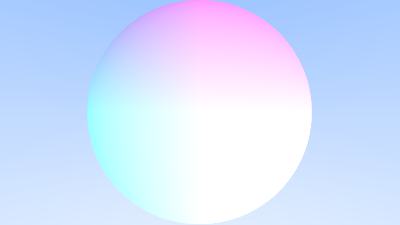
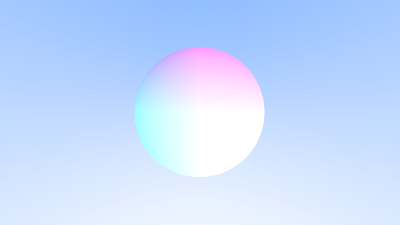
improve iterator usage in main method

Changed region(s): [[0.21, 0.0, 0.78, 0.9333]]

diff --git a/src/main.rs b/src/main.rs
@@ -1,57 +1,39 @@
 use std::{path::Path, vec};
-use image::ImageBuffer;
+use image::{ImageBuffer};
 use rust_raytracing::Ray;
 use rust_raytracing::Camera;
 use rust_raytracing::write_color;
 use rand::{thread_rng, Rng};
-
 
 fn main() {
     // Image
     let aspect_ratio = 16.0 / 9.0;
     let image_width: u32 = 400;
     let image_height = (image_width as f64 / aspect_ratio) as u32;
-    let origin = vec![0.0,0.0,0.0];
     let samples_per_pixel = 100;
 
-    // Camera
     let path = Path::new("image.png");
     let mut imgbuf = ImageBuffer::new(image_width, image_height);
-    
-    let camera = Camera::new(60.0, aspect_ratio, 1.0);
+    let camera = Camera::new(90.0, aspect_ratio, 1.0);
 
-    let mut rng = thread_rng();    
+    let mut rng = thread_rng(); 
 
-    for j in (0..image_height).rev(){
-        for i in 0..image_width{
-            let mut cumulative_color_vec = vec![0.0,0.0,0.0];
-            for s in 0..samples_per_pixel {
-                let u_scale = (i as f64 + rng.gen_range(0.0..1.0)) / (image_width - 1) as f64;
-                let v_scale = (j as f64 + rng.gen_range(0.0..1.0)) / (image_height - 1) as f64;
-                let traced_ray = camera.get_ray(u_scale, v_scale);
-
-                // TODO Adapt this
-                let pixel_vector = traced_ray.ray_color();
-                cumulative_color_vec[0] += pixel_vector[0];
-                cumulative_color_vec[1] += pixel_vector[1];
-                cumulative_color_vec[2] += pixel_vector[2];
+    for (i, j, pixel) in imgbuf.enumerate_pixels_mut(){
+        let sample_generator = |_x| -> Vec<f64> {
+            let u_scale = (i as f64 + rng.gen_range(0.0..1.0)) / (image_width - 1) as f64;
+            let v_scale = (j as f64 + rng.gen_range(0.0..1.0)) / (image_height - 1) as f64;
+            camera.get_ray(u_scale, v_scale).ray_color()
+        };
+        let vector_addition = {
+            |acc: Vec<f64>, samp: Vec<f64>| {
+                acc.iter().zip(samp.iter()).map(|(lhs,rhs)| lhs+rhs ).collect()
             }
-            let pixel_array: [u8; 3] = write_color(cumulative_color_vec, samples_per_pixel).try_into().unwrap();
-            let pixel = imgbuf.get_pixel_mut(i, j);
-
-            *pixel = image::Rgb(pixel_array);
-            // let u_scale = i as f64 / (image_width - 1) as f64;
-            // let v_scale = j as f64 / (image_height - 1) as f64;
-
-            // let traced_ray = camera.get_ray(u_scale, v_scale);
-            // let pixel_vector = traced_ray.ray_color();
-            // let pixel_array = pixel_vector.try_into().unwrap();
-
-
-            // let pixel = imgbuf.get_pixel_mut(i, j);
-            // *pixel = image::Rgb(pixel_array);
-        }
+        };
+        let color_vec = (0..samples_per_pixel).map(sample_generator).reduce(vector_addition).unwrap();
+        let pixel_array: [u8; 3] = write_color(color_vec, samples_per_pixel).try_into().unwrap();
+        *pixel = image::Rgb(pixel_array);
     }
+
     imgbuf.save(path).unwrap();
 
 }

diff --git a/src/lib.rs b/src/lib.rs
@@ -92,10 +92,14 @@ impl Ray {
 
 impl Camera {
     pub fn new(vfov: f64, aspect_ratio: f64, focal_length: f64) -> Camera {
-        return Camera { vfov: (vfov), aspect_ratio: (aspect_ratio), focal_length: (focal_length) }
+        Camera { 
+            vfov: vfov.to_radians(),
+            aspect_ratio: (aspect_ratio),
+            focal_length: (focal_length) 
+        }
     }
     pub fn get_ray(&self, u: f64, v:f64) -> Ray {
-        let theta = &self.vfov.to_radians();
+        let theta = &self.vfov;
         let h = (theta/2.0).tan() * &self.focal_length;
         let viewport_height = 2.0 * h;
         let viewport_width = &self.aspect_ratio * viewport_height;
